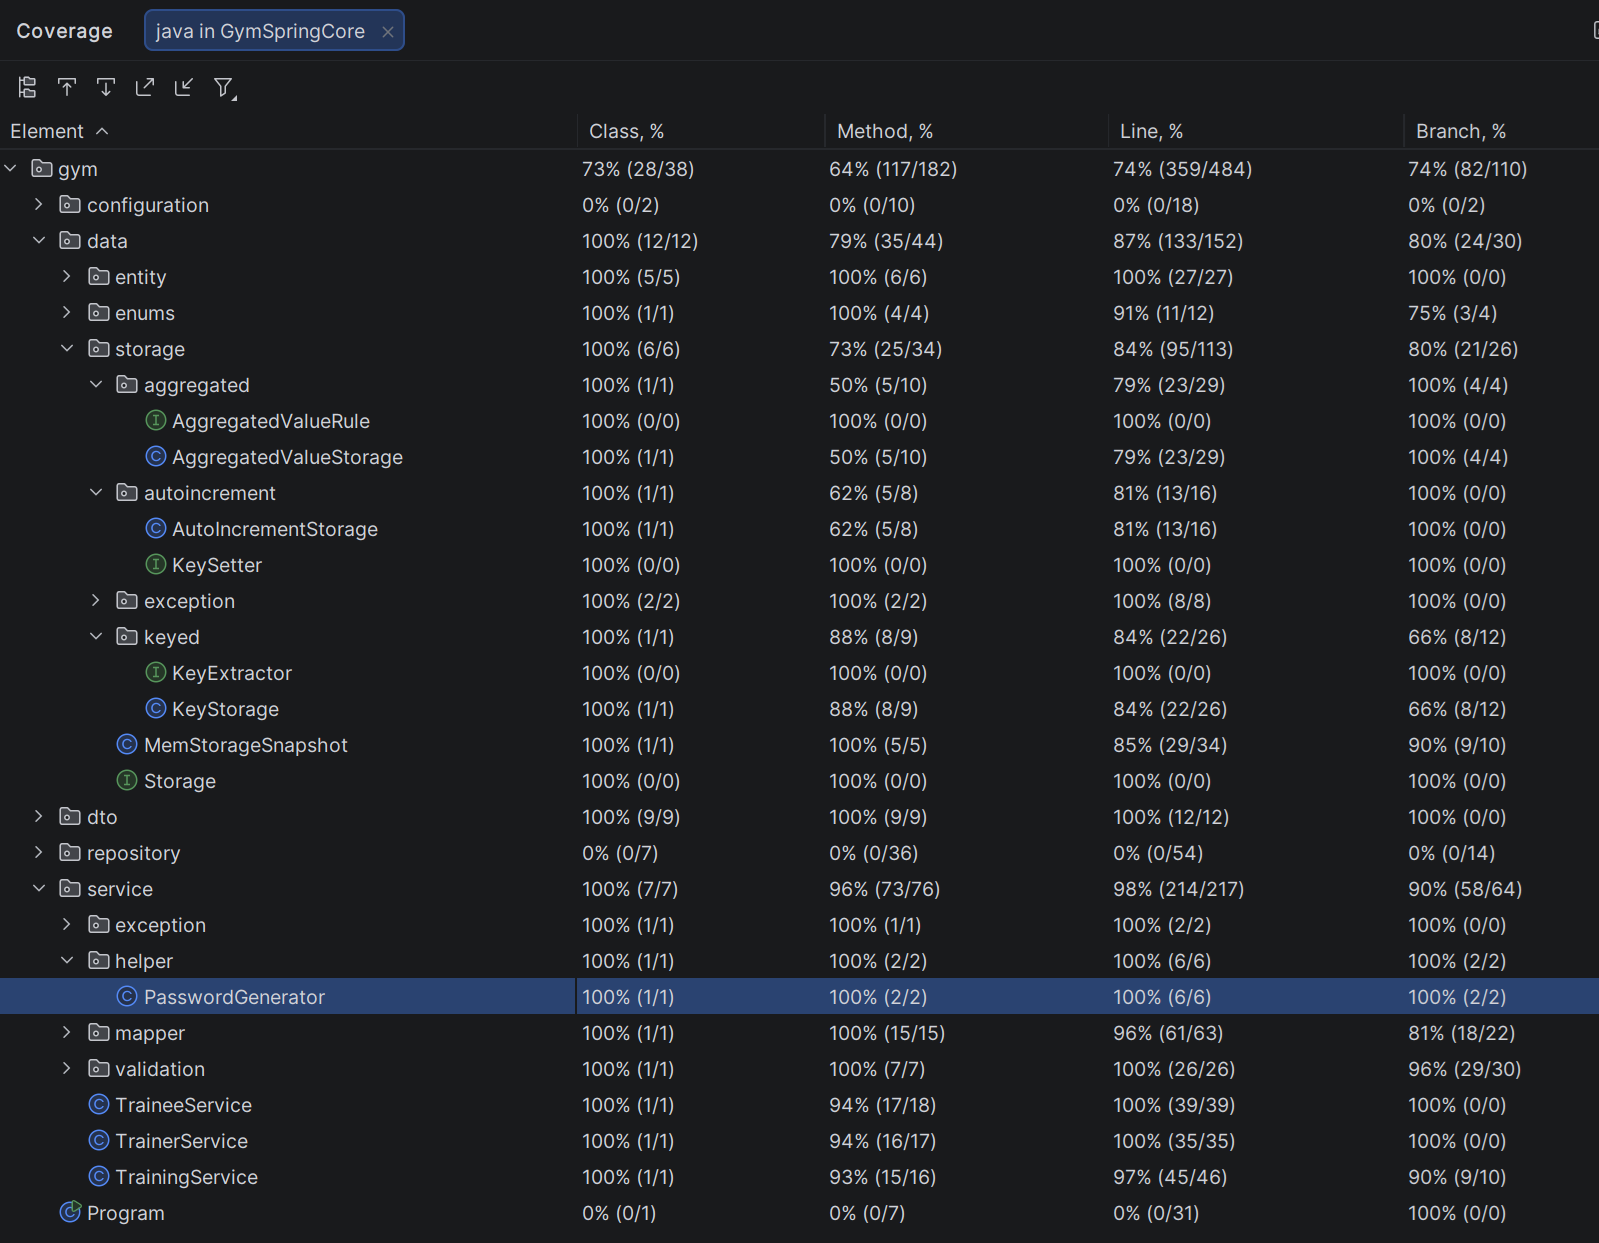
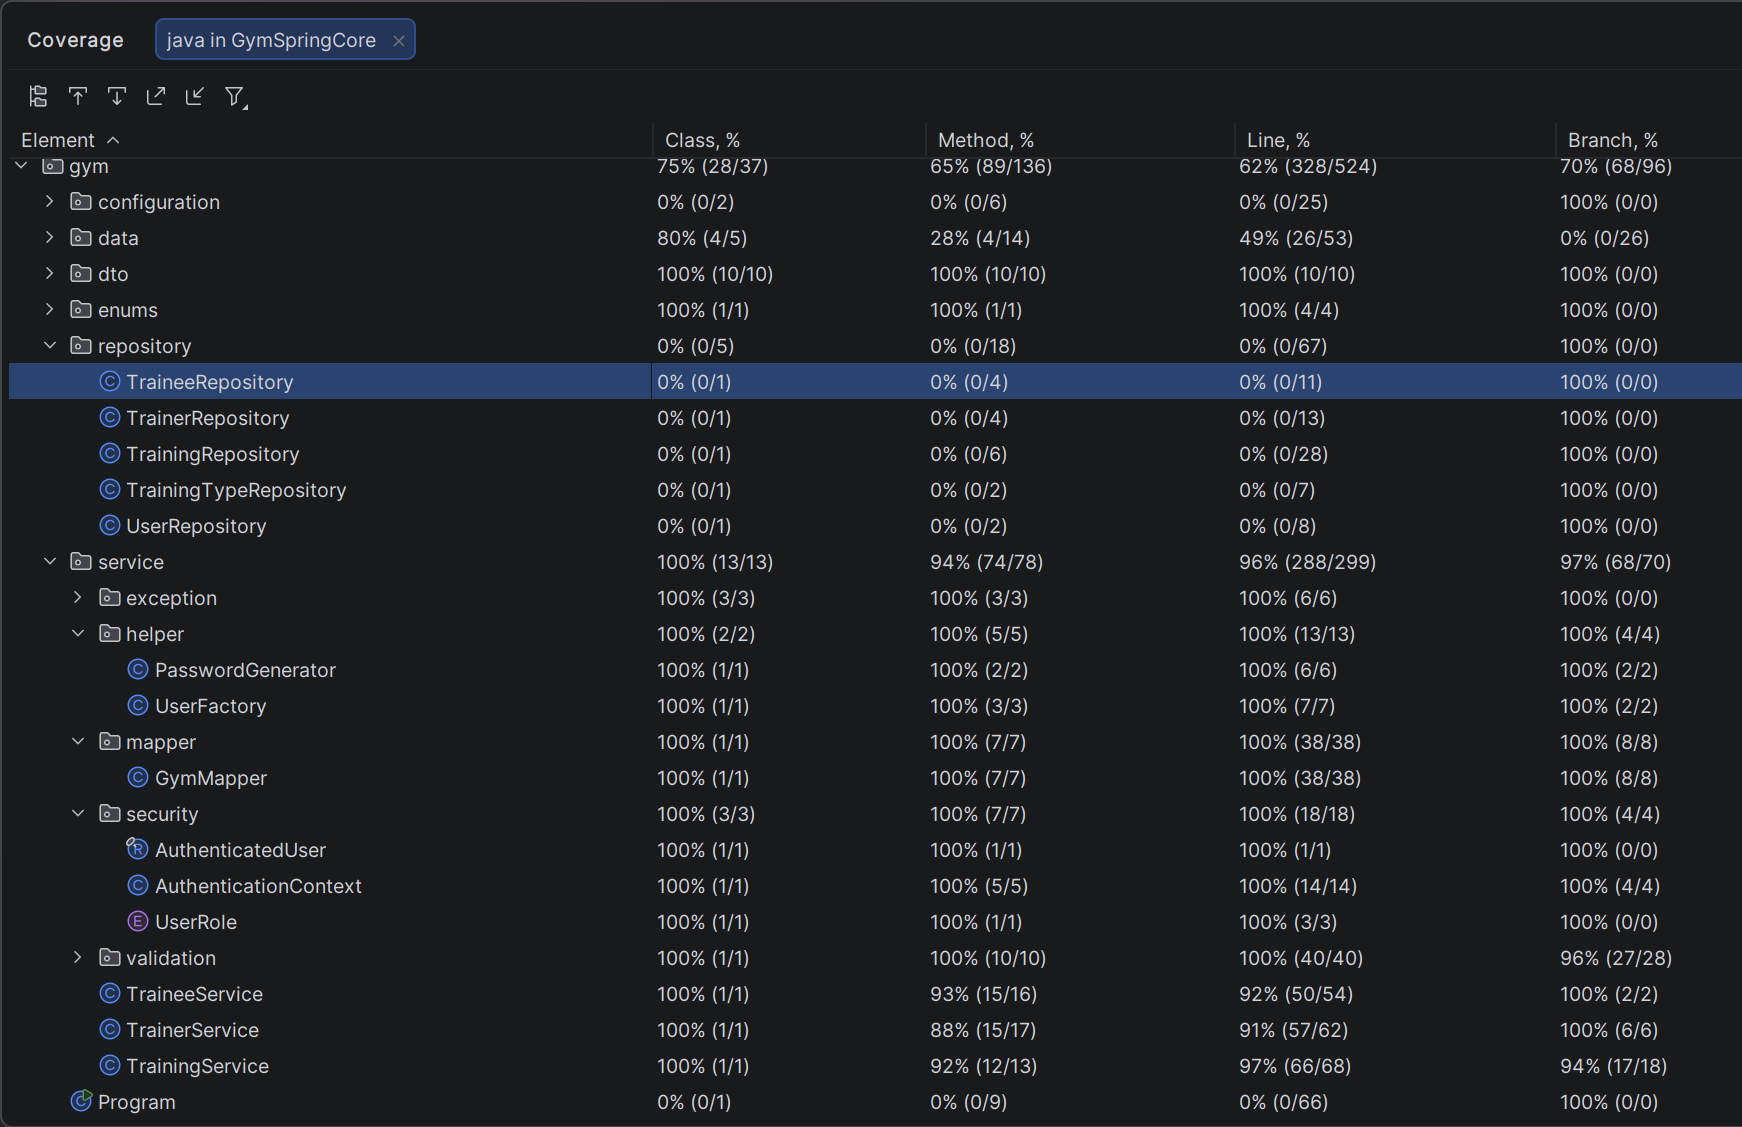
update readme and screenshots

Changed region(s): [[0.0, 0.0, 1.0, 1.0], [0.9806, 0.0, 1.0, 0.0311]]

diff --git a/README.md b/README.md
@@ -1,14 +1,94 @@
 # Gym Spring Core
 
-A gym management application on Spring Core (no Spring Boot): trainees, trainers and trainings,
-kept in an in-memory storage that is filled from JSON files on startup.
+A gym management application on Spring Core (no Spring Boot) and plain Hibernate: trainees,
+trainers and trainings, stored in PostgreSQL.
 
 ## Requirements
 
 - JDK 27
 - Maven 3.9+
+- Docker with Docker Compose
 
 Run all commands from the project root folder.
+
+## Launch
+
+1. Start the database and wait until it is ready:
+
+   ```bash
+   docker compose up -d --wait
+   ```
+
+   The first start downloads the `postgres:19` image.
+
+2. Run the application:
+
+   ```bash
+   mvn compile exec:java
+   ```
+
+   `compile` makes sure the code is up to date; `exec:java` then starts `gym.Program`
+   (configured in `pom.xml`) with the project's classpath, inside Maven's JVM.
+
+3. Stop the database when you are done:
+
+   ```bash
+   docker compose down
+   ```
+
+The database container keeps running between application starts, so step 1 is needed only once
+per session.
+
+## Database
+
+### Connection
+
+`compose.yaml` starts PostgreSQL in the `gym-db` container. Its database name, user, password
+and port come from `.env`:
+
+| Variable | Value |
+|---|---|
+| `DB_NAME` | `gym` |
+| `DB_USER` | `gym_user` |
+| `DB_PASSWORD` | `gym_pass` |
+| `DB_PORT` | `5432` |
+
+The application reads the same variables from its environment and falls back to these values
+when they are not set. If you change `.env`, set the same variables in the environment the
+application runs in.
+
+### Schema and data
+
+Application itself drops and recreates the schema on every start, then loads the seed data,
+so each run starts from the same state. The scripts are in `src/main/resources/db/`:
+
+| File | Contents |
+|---|---|
+| `drop.sql` | Drops all tables. |
+| `schema.sql` | Creates the tables and the training types `FITNESS`, `BODY_BUILDING`, `CROSSFIT`. |
+| `data.sql` | Seed users, trainees, trainers and trainings. |
+
+## Configuration
+
+`src/main/resources/appConfig.properties`. All properties are required: the app fails
+to start if one is missing.
+
+| Property | Default value | Meaning |
+|---|---|---|
+| `trainingDurationMinutesMin` | `15` | Shortest allowed training, in minutes. |
+| `scheduleGapMinutesMin` | `15` | How many minutes from now a training can start at the earliest. |
+| `minTraineeAge` | `5` | Youngest allowed trainee age, in years. |
+| `passwordMinLength` | `10` | Shortest allowed password. |
+| `db.driver`, `db.url`, `db.user`, `db.password` | see file | Database connection, built from the variables above. |
+| `db.script.drop`, `db.script.schema`, `db.script.data` | `db/*.sql` | Classpath locations of the scripts. |
+
+`RequestValidatorTest` reads the same file, so its limit tests follow these values.
+
+## Logging
+
+Application logs go to the console and to `logs/gym.log`, relative to the folder the app is
+started from. Hibernate SQL statements go only to `logs/gym.log`. Logging is configured in
+`src/main/resources/logback.xml`.
 
 ## Build
 
@@ -27,86 +107,11 @@ mvn package -DskipTests
 ```
 
 > The jar has no main class in its manifest and doesn't include dependencies,
-> so it isn't started with `java -jar`. Use `exec:java` as described below.
-
-## Run
-
-```bash
-mvn compile exec:java
-```
-
-`compile` makes sure the code is up to date; `exec:java` then starts `gym.Program`
-(configured in `pom.xml`) with the project's classpath, inside Maven's JVM.
-
-`gym.Program` runs a sample use case through the services: it creates a trainee, a trainer
-and a training between them, updates a trainer and a trainee, deletes a trainee, and logs
-all trainers, trainees and trainings.
-
-### Configuration and data
-
-#### Properties
-
-`src/main/resources/appConfig.properties`. All properties are required: the app fails
-to start if one is missing.
-
-| Property | Default value | Meaning |
-|---|---|---|
-| `storage.snapshot.location` | `snapshot` | Classpath folder with the startup data. |
-| `trainingDurationMinutesMin` | `15` | Shortest allowed training, in minutes. |
-| `scheduleGapMinutesMin` | `15` | How many minutes from now a training can start at the earliest. |
-| `minTraineeAge` | `5` | Youngest allowed trainee age, in years. |
-
-`RequestValidatorTest` reads the same file, so its limit tests follow these values.
-
-#### Startup data
-
-`src/main/resources/snapshot/` holds one JSON file per entity type, named after the
-entity class:
-
-| File | Contents |
-|---|---|
-| `gym.data.TraineeEntity` | Trainees: `id`, `birthDate` and a nested `user`. |
-| `gym.data.TrainerEntity` | Trainers: `id`, `specialization` and a nested `user`. |
-| `gym.data.TrainingEntity` | Trainings, referencing a trainee and a trainer by ID. |
-
-- The nested `user` holds the name, username, username suffix, password and active flag.
-- Trainees and trainers have separate IDs, so a trainee and a trainer can have the same ID.
-  New ones get the next ID after the highest loaded one of their type.
-- New usernames continue from the highest loaded suffix for the same first and last name,
-  across both trainees and trainers.
-- A missing file means no items of that type.
-
-#### Logging
-
-Logs go to the console and to `logs/gym.log`, relative to the folder the app is started from.
-Logging is configured in `src/main/resources/logback.xml`.
-
-## Debug
-
-### In IntelliJ IDEA
-
-Open `gym.Program` and click the gutter icon next to `main`, then **Debug 'Program.main()'**.
-For tests, use the same gutter icon next to a test class or test method.
-
-### From the command line, with any debugger
-
-The JVM waits until a debugger attaches to the given port. Attach with IntelliJ IDEA
-(**Run → Edit Configurations → + → Remote JVM Debug**, host `localhost`, the port below),
-VS Code, Eclipse or `jdb`.
-
-Application, waits on port **8000**:
-
-```bash
-mvnDebug compile exec:java
-```
-
-Tests, wait on port **5005**:
-
-```bash
-mvn test -Dmaven.surefire.debug
-```
+> so it isn't started with `java -jar`. Use `mvn compile exec:java` as described above.
 
 ## Tests
+
+The tests are unit tests and don't need the database.
 
 Run all tests:
 
@@ -123,7 +128,24 @@ mvn test -Dtest=TraineeServiceTest
 Run one test method:
 
 ```bash
-mvn test -Dtest=TraineeServiceTest#createTrainee_validRequest_returnsCreatedTrainee
+mvn test -Dtest=TraineeServiceTest#switchActive_activeUser_deactivates
 ```
 
 Test reports are written to `target/surefire-reports/`.
+
+## Debug
+
+These commands start a JVM that waits until a debugger attaches to the given port on
+`localhost`. Any JVM debugger that supports remote attach works.
+
+Application, waits on port **8000** (start the database first):
+
+```bash
+mvnDebug compile exec:java
+```
+
+Tests, wait on port **5005**:
+
+```bash
+mvn test -Dmaven.surefire.debug
+```
